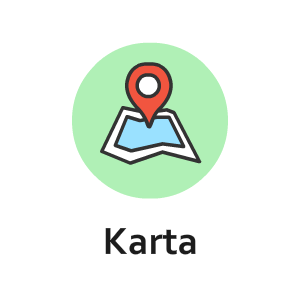
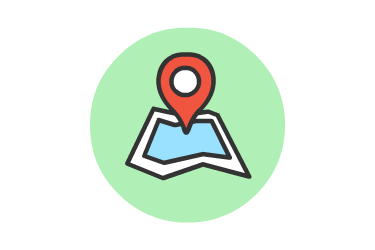
Text as component in button instead of in image

diff --git a/App.tsx b/App.tsx
@@ -34,7 +34,7 @@ const categories = [
   },
   {
     stackName: "WalkingTrail",
-    title: "Vandringsled",
+    title: "Vandringsleder",
     subtitle: '(Startpunkter)',
     imgUrl: require("./assets/vandringsled.png"),
     urlEnd: 'f6b33e8d-19bd-4d2d-a59b-35c4df352a2c'
@@ -48,25 +48,25 @@ const categories = [
   {
     stackName: "BirdTower",
     title: "Fågeltorn",
-    imgUrl: require("./assets/naturreservat.png"),
+    imgUrl: require("./assets/noIcon.png"),
     urlEnd: 'adf0ed85-2614-4f0e-a1d1-531900361a9c'
   },
   {
     stackName: "TouristAttraction",
-    title: "Turistattraktion",
-    imgUrl: require("./assets/naturreservat.png"),
+    title: "Turistattraktioner",
+    imgUrl: require("./assets/noIcon.png"),
     urlEnd: '33f5afd7-9a53-46cb-9842-adadc9769c34'
   },
   {
     stackName: "ExerciseAreas",
     title: "Träningsområden",
-    imgUrl: require("./assets/naturreservat.png"),
+    imgUrl: require("./assets/noIcon.png"),
     urlEnd: '1e7197b0-93d6-49ea-878f-489eff759ba7'
   },
   {
     stackName: "Playground",
     title: "Lekplatser",
-    imgUrl: require("./assets/naturreservat.png"),
+    imgUrl: require("./assets/noIcon.png"),
     urlEnd: '8861938c-e603-422f-b5b9-b49c09c15b9f'
   }
 ]

diff --git a/components/Shared/ListOrMap.tsx b/components/Shared/ListOrMap.tsx
@@ -22,12 +22,14 @@ export default function ListOrMap({ navigation }) {
                 <View style={Buttons.buttonContainer}>
                     <TouchableOpacity onPress={goToList} style={Buttons.button}>
                         <Image source={require("../../assets/lista.png")} style={Images.buttonImageSmall} />
+                        <Text style={Typography.boldCenterButton}>Lista</Text>
                     </TouchableOpacity>
                 </View>
 
                 <View style={Buttons.buttonContainer}>
                     <TouchableOpacity onPress={goToMap} style={Buttons.button}>
                         <Image source={require("../../assets/karta.png")} style={Images.buttonImageSmall} />
+                        <Text style={Typography.boldCenterButton}>Karta</Text>
                     </TouchableOpacity>
                 </View>
             </View>

diff --git a/components/Root/Categories.tsx b/components/Root/Categories.tsx
@@ -18,6 +18,7 @@ export default function Categories({ categories, artefact, isLoggedIn, navigatio
             console.log(categoryObj.imgUrl);
             return <TouchableOpacity onPress={onPress(categoryObj)} style={Buttons.buttonGrid} key={index}>
                 <Image source={categoryObj.imgUrl} style={Images.buttonImage} />
+                <Text style={Typography.boldCenterButton}>{categoryObj.title}</Text>
             </TouchableOpacity>
         });
 

diff --git a/styles/buttons.tsx b/styles/buttons.tsx
@@ -4,6 +4,9 @@ export const buttonContainer = {
 }
 
 export const button = {
+    width: 160,
+    height: 160,
+    justifyContent: "center",
     backgroundColor: '#FAFAFA',
     borderRadius: 8,
     padding: 10,
@@ -27,6 +30,10 @@ export const button = {
 }
 
 export const buttonGrid = {
+    flex: 1,
+    justifyContent: "center",
+    width: 170,
+    height: 170,
     backgroundColor: '#FAFAFA',
     borderRadius: 8,
     padding: 10,

diff --git a/styles/typography.tsx b/styles/typography.tsx
@@ -140,6 +140,16 @@ export const boldCenter = {
     fontWeight: 'bold'
 };
 
+export const boldCenterButton = {
+    textAlign: "center",
+    color: '#313131',
+    fontSize: 16.5,
+    letterSpacing: 0.5,
+    fontFamily: "sans-serif",
+    marginBottom: 5,
+    fontWeight: 'bold'
+};
+
 export const boldCenterParagraph = {
     textAlign: "center",
     color: '#3D3D3D',

diff --git a/styles/images.tsx b/styles/images.tsx
@@ -1,11 +1,12 @@
 export const buttonImage = {
     width: 148,
-    height: 148,
+    height: 100,
 }
 
 export const buttonImageSmall = {
-    width: 130,
-    height: 130,
+    width: 100,
+    height: 90,
+    alignSelf: 'center',
 }
 
 export const buttonIconStart = {
